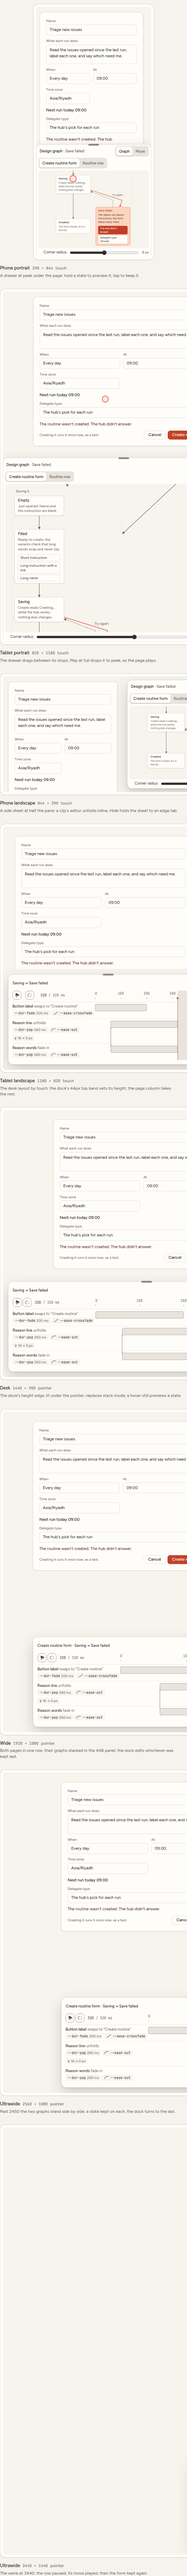
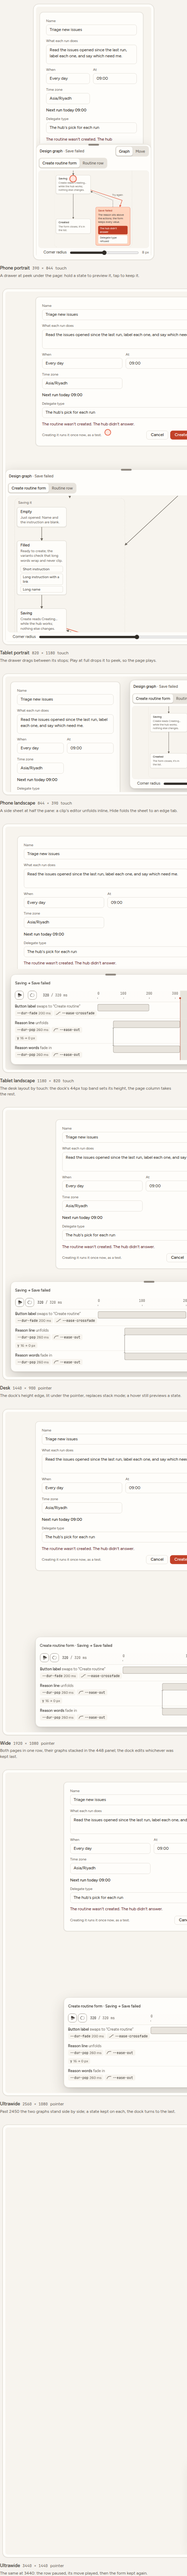
design-graph screens: frames stand --space-2 inside their scrolling rows at both ends
The .ds-scroll rows get --space-2 inline padding and scroll padding, and lay out as
flex (justify-content: safe center), because a grid's end padding does not reach past
an item that overflows its track. r26 B4 now asserts each frame's left edge, and its
right edge scrolled to the end, stand --space-2 inside its row's visible box.

diff --git a/.mockups/design-graph/screens/index.html b/.mockups/design-graph/screens/index.html
@@ -2221,17 +2221,22 @@ a {
 }
 /* The kit's rule for wide media: a frame scales down to fit only while its words stay at 10px or more
    (--ds-min-s, 10 over the frame's smallest type, measured by the script); past that it stands at that scale
-   and its row scrolls sideways. */
+   and its row scrolls sideways. The row's inline padding (and its scroll padding) keeps a frame's whole
+   border and a margin at both ends of the scroll. A flex row, because a grid's end padding does not reach
+   past an item that overflows its track. */
 .mk-dg-screens .ds-scroll {
-  display: grid;
+  display: flex;
+  justify-content: safe center;
   min-inline-size: 0;
   overflow-x: auto;
   overscroll-behavior-x: contain;
   padding-block: var(--space-1);
+  padding-inline: var(--space-2);
+  scroll-padding-inline: var(--space-2);
 }
 /* The outline: a raised bezel round the screen, concentric (8px screen + 7px bezel = 15px). */
 .mk-dg-screens .ds-device {
-  justify-self: safe center;
+  flex: none;
   inline-size: max(min(100%, calc(var(--ds-cap) * var(--ds-w) / var(--ds-h))), calc(var(--ds-w) * var(--ds-min-s, 0) * 1px + 2 * var(--space-2) + 2px));
   padding: var(--space-2);
   border: 1px solid var(--border-control);

diff --git a/.mockups/design-graph/screens/frames.css b/.mockups/design-graph/screens/frames.css
@@ -25,17 +25,22 @@
 }
 /* The kit's rule for wide media: a frame scales down to fit only while its words stay at 10px or more
    (--ds-min-s, 10 over the frame's smallest type, measured by the script); past that it stands at that scale
-   and its row scrolls sideways. */
+   and its row scrolls sideways. The row's inline padding (and its scroll padding) keeps a frame's whole
+   border and a margin at both ends of the scroll. A flex row, because a grid's end padding does not reach
+   past an item that overflows its track. */
 .mk-dg-screens .ds-scroll {
-  display: grid;
+  display: flex;
+  justify-content: safe center;
   min-inline-size: 0;
   overflow-x: auto;
   overscroll-behavior-x: contain;
   padding-block: var(--space-1);
+  padding-inline: var(--space-2);
+  scroll-padding-inline: var(--space-2);
 }
 /* The outline: a raised bezel round the screen, concentric (8px screen + 7px bezel = 15px). */
 .mk-dg-screens .ds-device {
-  justify-self: safe center;
+  flex: none;
   inline-size: max(min(100%, calc(var(--ds-cap) * var(--ds-w) / var(--ds-h))), calc(var(--ds-w) * var(--ds-min-s, 0) * 1px + 2 * var(--space-2) + 2px));
   padding: var(--space-2);
   border: 1px solid var(--border-control);

diff --git a/.mockups/design-graph/screens/mockups/dg-screens.html b/.mockups/design-graph/screens/mockups/dg-screens.html
@@ -29,17 +29,22 @@
 }
 /* The kit's rule for wide media: a frame scales down to fit only while its words stay at 10px or more
    (--ds-min-s, 10 over the frame's smallest type, measured by the script); past that it stands at that scale
-   and its row scrolls sideways. */
+   and its row scrolls sideways. The row's inline padding (and its scroll padding) keeps a frame's whole
+   border and a margin at both ends of the scroll. A flex row, because a grid's end padding does not reach
+   past an item that overflows its track. */
 .mk-dg-screens .ds-scroll {
-  display: grid;
+  display: flex;
+  justify-content: safe center;
   min-inline-size: 0;
   overflow-x: auto;
   overscroll-behavior-x: contain;
   padding-block: var(--space-1);
+  padding-inline: var(--space-2);
+  scroll-padding-inline: var(--space-2);
 }
 /* The outline: a raised bezel round the screen, concentric (8px screen + 7px bezel = 15px). */
 .mk-dg-screens .ds-device {
-  justify-self: safe center;
+  flex: none;
   inline-size: max(min(100%, calc(var(--ds-cap) * var(--ds-w) / var(--ds-h))), calc(var(--ds-w) * var(--ds-min-s, 0) * 1px + 2 * var(--space-2) + 2px));
   padding: var(--space-2);
   border: 1px solid var(--border-control);
